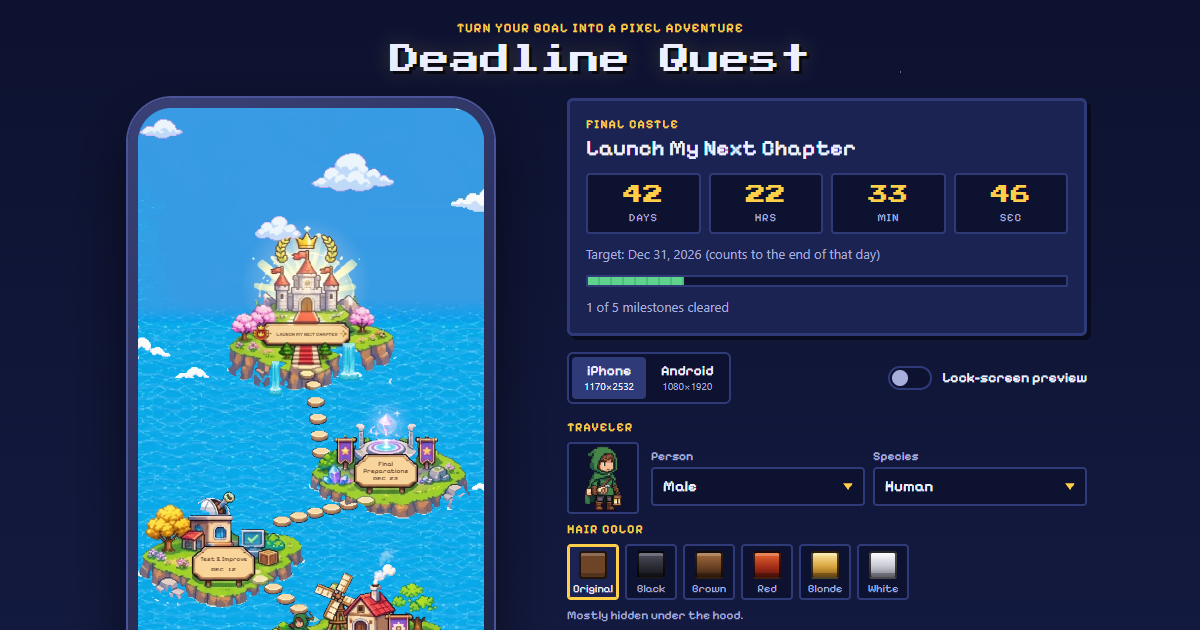
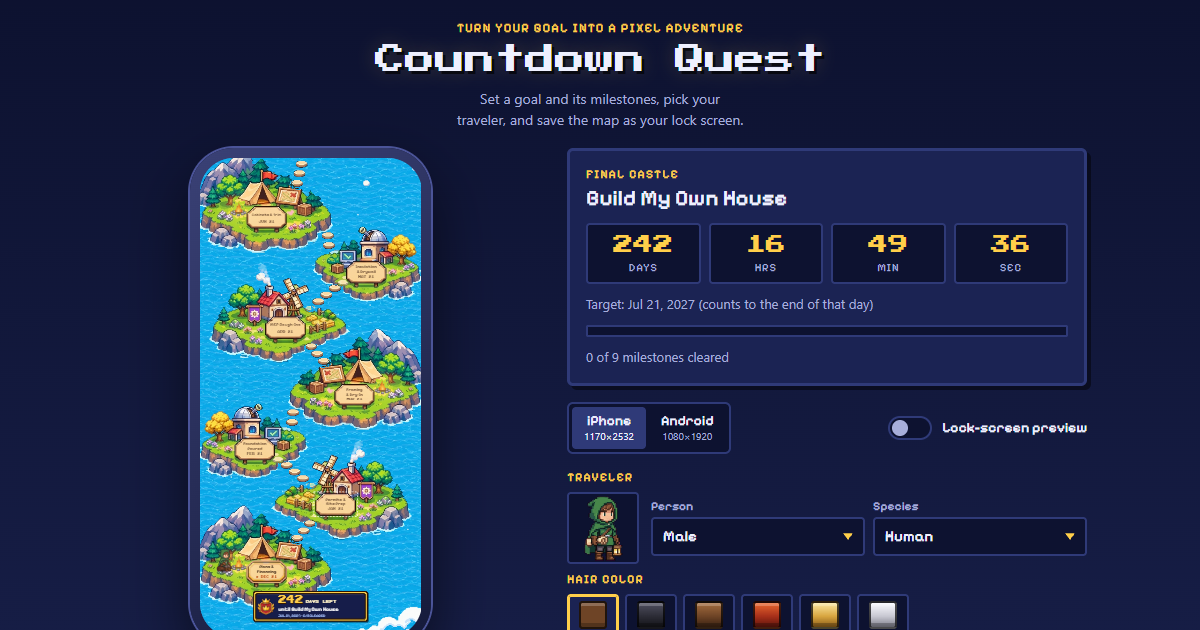
Rename to Countdown Quest; new link-preview image

diff --git a/index.html b/index.html
@@ -3,13 +3,13 @@
 <head>
 <meta charset="utf-8">
 <meta name="viewport" content="width=device-width, initial-scale=1, viewport-fit=cover">
-<title>Deadline Quest</title>
+<title>Countdown Quest</title>
 <meta name="description" content="Turn your goal into a pixel adventure: a live countdown map in your browser that you can save as a still lock-screen wallpaper for your phone.">
 <meta name="theme-color" content="#0d1230">
 <link rel="icon" type="image/png" sizes="32x32" href="favicon.png">
 <link rel="apple-touch-icon" href="apple-touch-icon.png">
 <meta property="og:type" content="website">
-<meta property="og:title" content="Deadline Quest">
+<meta property="og:title" content="Countdown Quest">
 <meta property="og:description" content="Turn your goal into a pixel adventure: a live countdown map you can save as your phone's lock screen.">
 <meta property="og:image" content="https://antdieell.github.io/deadline-quest-site/og-image.png">
 <meta name="twitter:card" content="summary_large_image">
@@ -22,10 +22,10 @@
 <div class="app">
   <header class="masthead">
     <p class="eyebrow">Turn your goal into a pixel adventure</p>
-    <h1>Deadline Quest</h1>
+    <h1><span class="app-name">Countdown Quest</span></h1>
     <p class="lede">Set a goal and its milestones, pick your traveler, and save the map as your lock screen.</p>
   </header>
-  <noscript><p class="lede">Deadline Quest needs JavaScript to draw the map.</p></noscript>
+  <noscript><p class="lede">Countdown Quest needs JavaScript to draw the map.</p></noscript>
 
   <main class="layout">
     <!-- Phone preview -->
@@ -180,24 +180,24 @@
             <li>Tap <b>Add Action</b>, search for <b>Set Wallpaper Photo</b> and add it. Set its photo to <b>Shortcut Input</b> and pick the wallpaper it should change (the one from step 1). Turn off <b>Show Preview</b> so it applies without asking.</li>
             <li>Name the shortcut <b>Set quest wallpaper</b> and tap <b>Done</b>.</li>
           </ol>
-          <p class="hint">From now on: in Deadline Quest tap <b>Download wallpaper</b>, then in the share sheet tap <b>Set quest wallpaper</b> (scroll the row of apps if it's hidden). Your lock screen shows today's count.</p>
+          <p class="hint">From now on: in <span class="app-name">Countdown Quest</span> tap <b>Download wallpaper</b>, then in the share sheet tap <b>Set quest wallpaper</b> (scroll the row of apps if it's hidden). Your lock screen shows today's count.</p>
 
           <details class="more">
             <summary>Optional: a daily reminder, or an automation that applies your newest saved picture</summary>
             <p><b>Daily reminder.</b> In Shortcuts open <b>Automation → + → Time of Day</b>, pick a time such as 7:00 and <b>Daily</b>, choose <b>Run Immediately</b>, then add the action <b>Open URLs</b> with this page's address:</p>
             <div class="url-row"><code id="pageUrl">…</code><button type="button" class="copy" id="copyUrl">Copy</button></div>
-            <p>Each morning your iPhone opens Deadline Quest; two taps later the lock screen is current.</p>
-            <p><b>Apply the newest picture on a schedule.</b> If you would rather save pictures and have them applied later: when you download, choose <b>Save to Files</b> and pick the <b>Shortcuts</b> folder in iCloud Drive (make a <b>Deadline Quest</b> folder inside it the first time). Then make a Time of Day automation with these actions: <b>Get Contents of Folder</b> (Deadline Quest) → <b>Filter Files</b> (sort by Last Modified Date, latest first, limit 1) → <b>Set Wallpaper Photo</b>. The automation sets whatever picture you saved last. It cannot draw a new one, so the count is as of the time you saved it.</p>
+            <p>Each morning your iPhone opens <span class="app-name">Countdown Quest</span>; two taps later the lock screen is current.</p>
+            <p><b>Apply the newest picture on a schedule.</b> If you would rather save pictures and have them applied later: when you download, choose <b>Save to Files</b> and pick the <b>Shortcuts</b> folder in iCloud Drive (make a <b><span class="app-name">Countdown Quest</span></b> folder inside it the first time). Then make a Time of Day automation with these actions: <b>Get Contents of Folder</b> (Deadline Quest) → <b>Filter Files</b> (sort by Last Modified Date, latest first, limit 1) → <b>Set Wallpaper Photo</b>. The automation sets whatever picture you saved last. It cannot draw a new one, so the count is as of the time you saved it.</p>
           </details>
 
           <div class="verify">
-            <b>Not yet verified on a real iPhone.</b> These Shortcuts steps follow Apple's documented actions, but the Deadline Quest team has not run the full flow on a device yet, and button names differ a little between iOS versions. If a step doesn't match what you see, "Set it by hand" always works.
+            <b>Not yet verified on a real iPhone.</b> These Shortcuts steps follow Apple's documented actions, but the <span class="app-name">Countdown Quest</span> team has not run the full flow on a device yet, and button names differ a little between iOS versions. If a step doesn't match what you see, "Set it by hand" always works.
           </div>
 
           <h4>Why isn't it automatic?</h4>
           <ul class="why">
             <li>The picture is drawn in your browser from milestones that are stored only on your phone. Shortcuts can't run this page on a schedule to draw a fresh one, and its "Get Contents of URL" action can only fetch a file that already exists somewhere.</li>
-            <li>Adding Deadline Quest to your Home Screen (<b>Share → Add to Home Screen</b>) makes it open like an app, but iPhone gives web apps no permission to change the wallpaper. Only Settings and the Shortcuts "Set Wallpaper Photo" action can.</li>
+            <li>Adding <span class="app-name">Countdown Quest</span> to your Home Screen (<b>Share → Add to Home Screen</b>) makes it open like an app, but iPhone gives web apps no permission to change the wallpaper. Only Settings and the Shortcuts "Set Wallpaper Photo" action can.</li>
             <li>A fully automatic version would need a server that redraws your wallpaper every day, which means hosting and an account. That isn't built, so we don't claim it.</li>
           </ul>
         </div>
@@ -255,14 +255,14 @@
     <div>
       <h2 id="saveTitle">Your wallpaper</h2>
       <p id="saveHint">Press and hold the image, then choose <b>Save to Photos</b>. On a computer, right-click and choose <b>Save image as</b>. <span id="saveSize"></span></p>
-      <p class="save-warn" id="saveWarn" hidden>This preview runs inside another page, which can block saving. If nothing works here, open Deadline Quest directly in Safari or Chrome.</p>
+      <p class="save-warn" id="saveWarn" hidden>This preview runs inside another page, which can block saving. If nothing works here, open <span class="app-name">Countdown Quest</span> directly in Safari or Chrome.</p>
     </div>
     <div class="save-actions">
       <button type="button" class="save-share" id="saveShare" hidden>Share / Save to Photos</button>
       <button type="button" class="save-close" id="saveClose">Done</button>
     </div>
   </div>
-  <img id="saveImg" alt="Exported Deadline Quest wallpaper">
+  <img id="saveImg" alt="Exported Countdown Quest wallpaper">
 </div>
 <script src="app.js"></script>
 </body>

diff --git a/app.js b/app.js
@@ -1,4 +1,4 @@
-/* Deadline Quest — countdown map engine, milestone manager and wallpaper exporter. */
+/* Countdown Quest (web) / Deadline Quest (apps) — countdown map engine, milestone manager and wallpaper exporter. */
 (() => {
   'use strict';
 
@@ -15,6 +15,7 @@
   const NATIVE = CAP && CAP.isNativePlatform && CAP.isNativePlatform() && window.capacitorExports
     ? window.capacitorExports.registerPlugin('Wallpaper') : null;
   const APP_OS = NATIVE ? CAP.getPlatform() : '';                 // 'android' | 'ios' | ''
+  const APP_NAME = NATIVE ? 'Deadline Quest' : 'Countdown Quest';      // the website and the phone apps go by different names
 
   // Traveler roster. Frames live at assets/sprites/<prefix>-0..3.png (idle, walk 1, walk 2, victory),
   // all built by tools/key_heroes.py on a 360x360 canvas with the feet at y = 350.
@@ -291,7 +292,7 @@
     let data, island = null;
     if (landLayer) island = landLayer.getContext('2d').getImageData(0, WATER_TOP, MAP_W, h).data;
     try { data = x.getImageData(0, 0, MAP_W, h); }
-    catch (_) { console.warn('Deadline Quest: serve over http(s) to enable the ocean shimmer and PNG export.'); return; }
+    catch (_) { console.warn(APP_NAME + ': serve over http(s) to enable the ocean shimmer and PNG export.'); return; }
     const d = data.data;
     for (let i = 0; i < d.length; i += 4) {
       const water = isSea(d[i], d[i + 1], d[i + 2]) && !(island && island[i + 3] > 10);
@@ -2023,7 +2024,7 @@
     try { blob = await new Promise(res => c.toBlob(res, 'image/png')); }
     catch (_) { blob = null; }
     if (!blob) throw new Error('The browser blocked the export. Open the page from a web server (http or https), not as a local file.');
-    const name = `deadline-quest-${state.device}-${d.w}x${d.h}.png`;
+    const name = `${APP_NAME.toLowerCase().replace(' ', '-')}-${state.device}-${d.w}x${d.h}.png`;
     // Embedded viewers (iframes) block downloads and sharing: show the image so it can be saved by hand.
     let framed = false;
     try { framed = window.self !== window.top; } catch (_) { framed = true; }
@@ -2033,7 +2034,7 @@
     try { canShare = !!(navigator.canShare && navigator.canShare({ files: [file] })); } catch (_) { canShare = false; }
     if (framed) { showSaveSheet(c.toDataURL('image/png'), d, canShare ? file : null, true); return ''; }
     if (touch && canShare) {
-      try { await navigator.share({ files: [file], title: 'Deadline Quest wallpaper' }); return 'Wallpaper ready. Choose "Save Image" to add it to Photos.'; }
+      try { await navigator.share({ files: [file], title: APP_NAME + ' wallpaper' }); return 'Wallpaper ready. Choose "Save Image" to add it to Photos.'; }
       catch (e) { if (e.name === 'AbortError') return ''; }
     }
     // Phones: link downloads are unreliable (Safari may open the image instead or ask), so show the picture with a
@@ -2055,7 +2056,7 @@
     $('saveSize').textContent = `${d.w}×${d.h} · ${d.label}`;
     $('saveShare').hidden = !file;
     $('saveWarn').hidden = !framed;
-    $('saveWarn').textContent = 'This preview runs inside another page, which can block saving. If nothing works here, open Deadline Quest directly in Safari or Chrome.';
+    $('saveWarn').textContent = `This preview runs inside another page, which can block saving. If nothing works here, open ${APP_NAME} directly in Safari or Chrome.`;
     sheet.hidden = false;
     (file ? $('saveShare') : $('saveClose')).focus();
   }
@@ -2063,11 +2064,11 @@
   // user-gesture rule is always met.
   $('saveShare').addEventListener('click', async () => {
     if (!shareFile) return;
-    try { await navigator.share({ files: [shareFile], title: 'Deadline Quest wallpaper' }); }
+    try { await navigator.share({ files: [shareFile], title: APP_NAME + ' wallpaper' }); }
     catch (e) {
       if (e.name === 'AbortError') return;
       $('saveWarn').hidden = false;
-      $('saveWarn').textContent = `Sharing is blocked here (${e.name}). Press and hold the image and choose Save to Photos, or open Deadline Quest directly in Safari or Chrome.`;
+      $('saveWarn').textContent = `Sharing is blocked here (${e.name}). Press and hold the image and choose Save to Photos, or open ${APP_NAME} directly in Safari or Chrome.`;
     }
   });
   $('saveClose').addEventListener('click', () => { $('saveSheet').hidden = true; $('saveImg').removeAttribute('src'); shareFile = null; $('downloadBtn').focus(); });
@@ -2251,6 +2252,7 @@
   // ----------------------------------------------------------------- boot
   applyDevice();
   applyLock();
+  if (NATIVE) { document.title = APP_NAME; document.querySelectorAll('.app-name').forEach(e => { e.textContent = APP_NAME; }); }
   renderRoster();
   renderList();
   updateCountdown();

diff --git a/README.md b/README.md
@@ -1,4 +1,4 @@
-# Deadline Quest
+# Countdown Quest
 
 Turn your goal into a pixel adventure. Set a goal and its milestones, pick a traveler, and watch them journey across
 floating islands toward the castle while a live countdown ticks. Save the map as a still lock-screen wallpaper for
